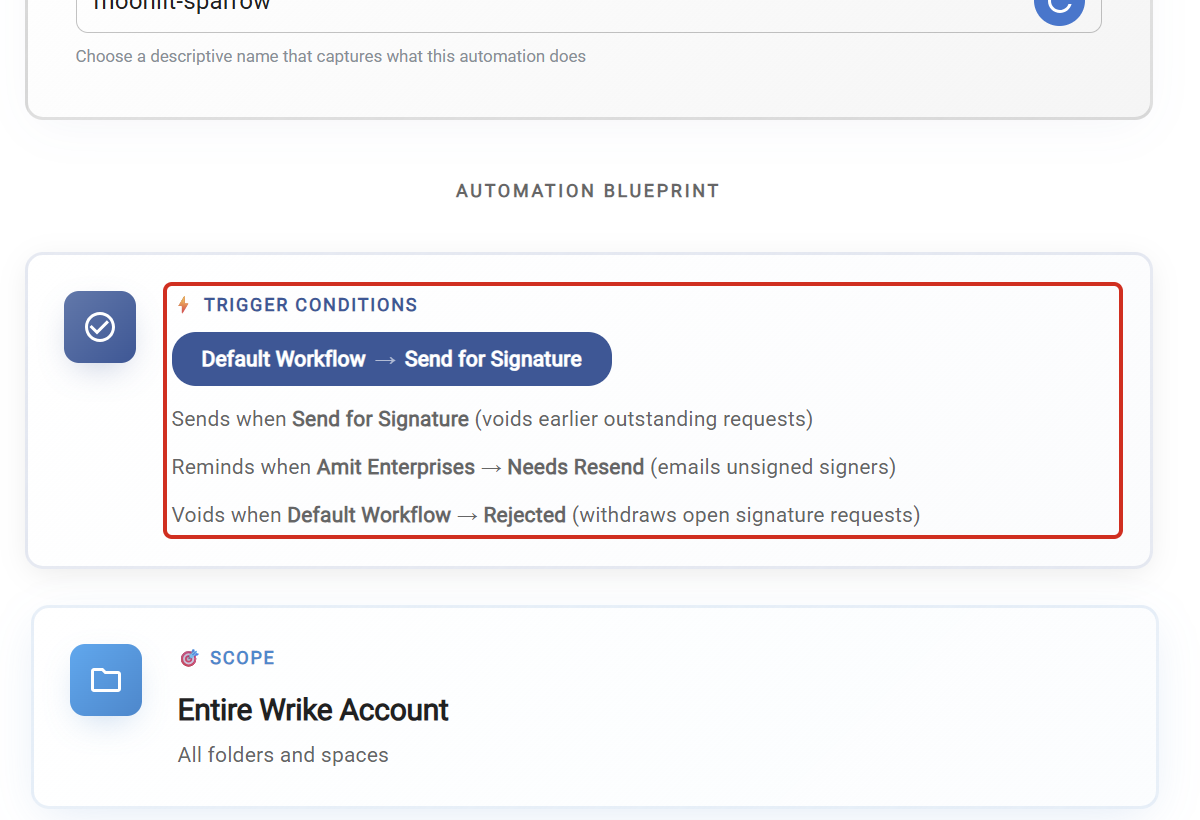
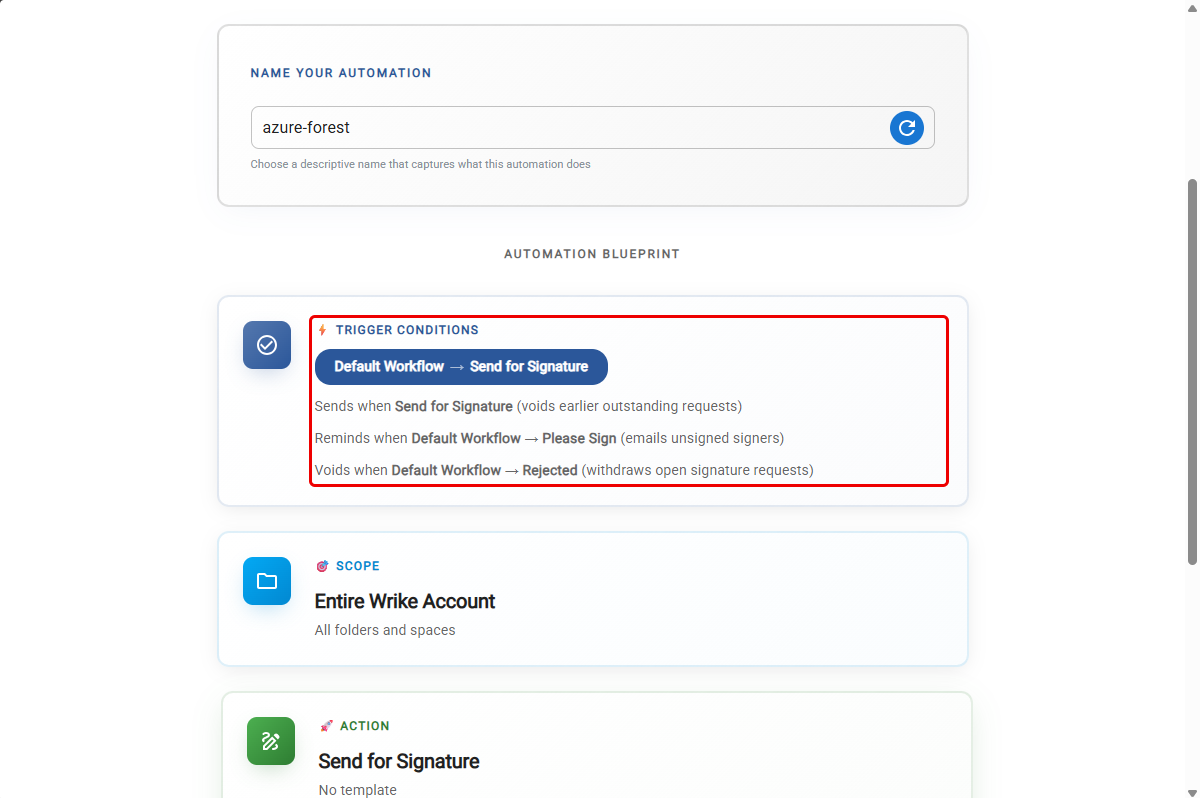
docs(wrike): recapture screenshots with generic workflow names

diff --git a/docs/Integrations/Wrike/signature-automation.md b/docs/Integrations/Wrike/signature-automation.md
@@ -146,7 +146,7 @@ All three are optional and sit below **Map Document Fields** in the signature st
 
 In **Send a reminder when the task moves to**, pick the Wrike status your team uses to nudge signers.
 
-![The Send a reminder status picker highlighted, set to Needs Resend](/img/wrike-integration/SigAuto-SendReminder.png)
+![The Send a reminder status picker highlighted, set to Please Sign](/img/wrike-integration/SigAuto-SendReminder.png)
 
 When a task moves to that status, TurboDocx emails a reminder, with the same signing link, to every signer who hasn't signed yet. It doesn't create a new request, and requests that were voided are skipped. A comment on the task confirms how many signers were reminded.
 
